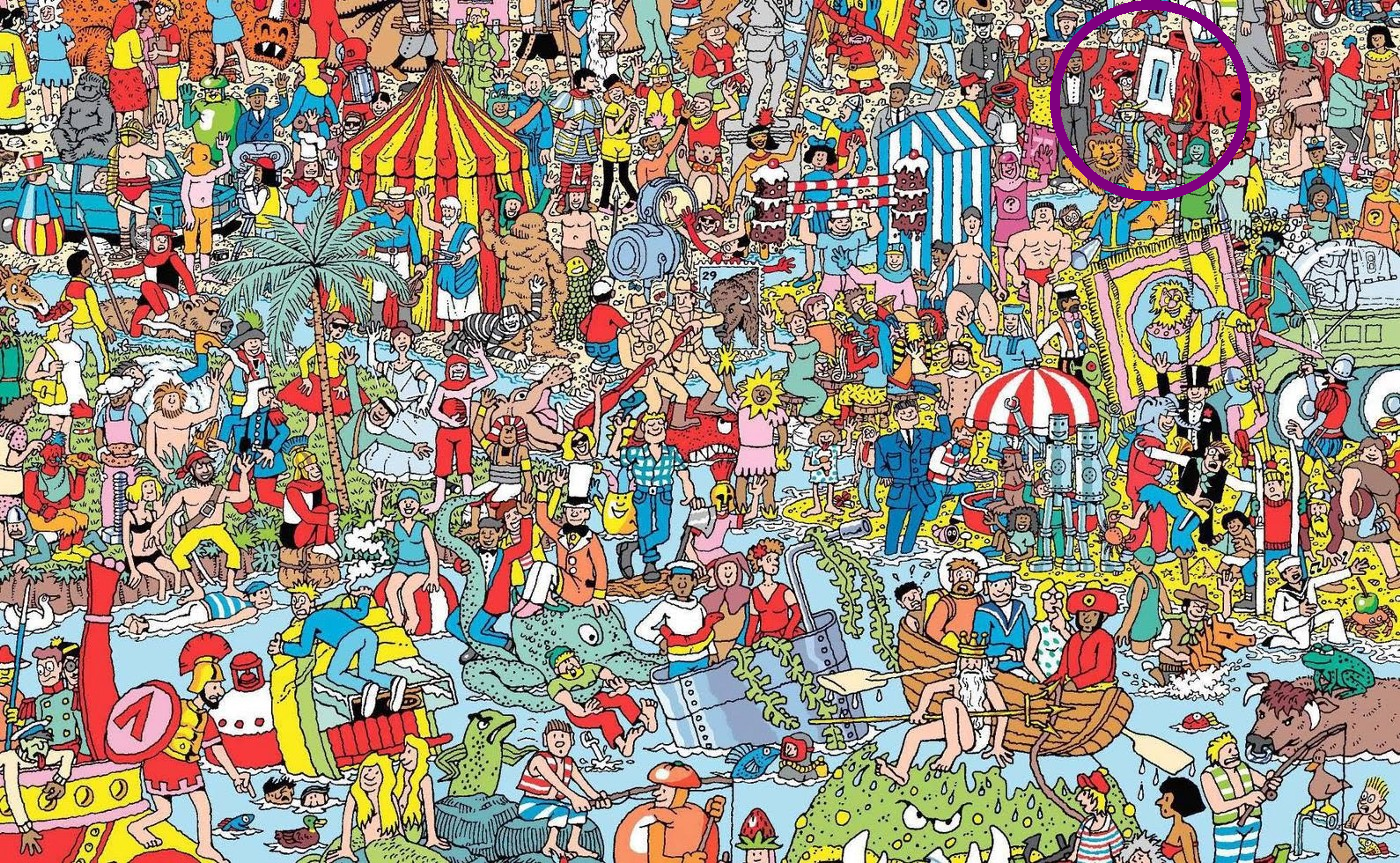
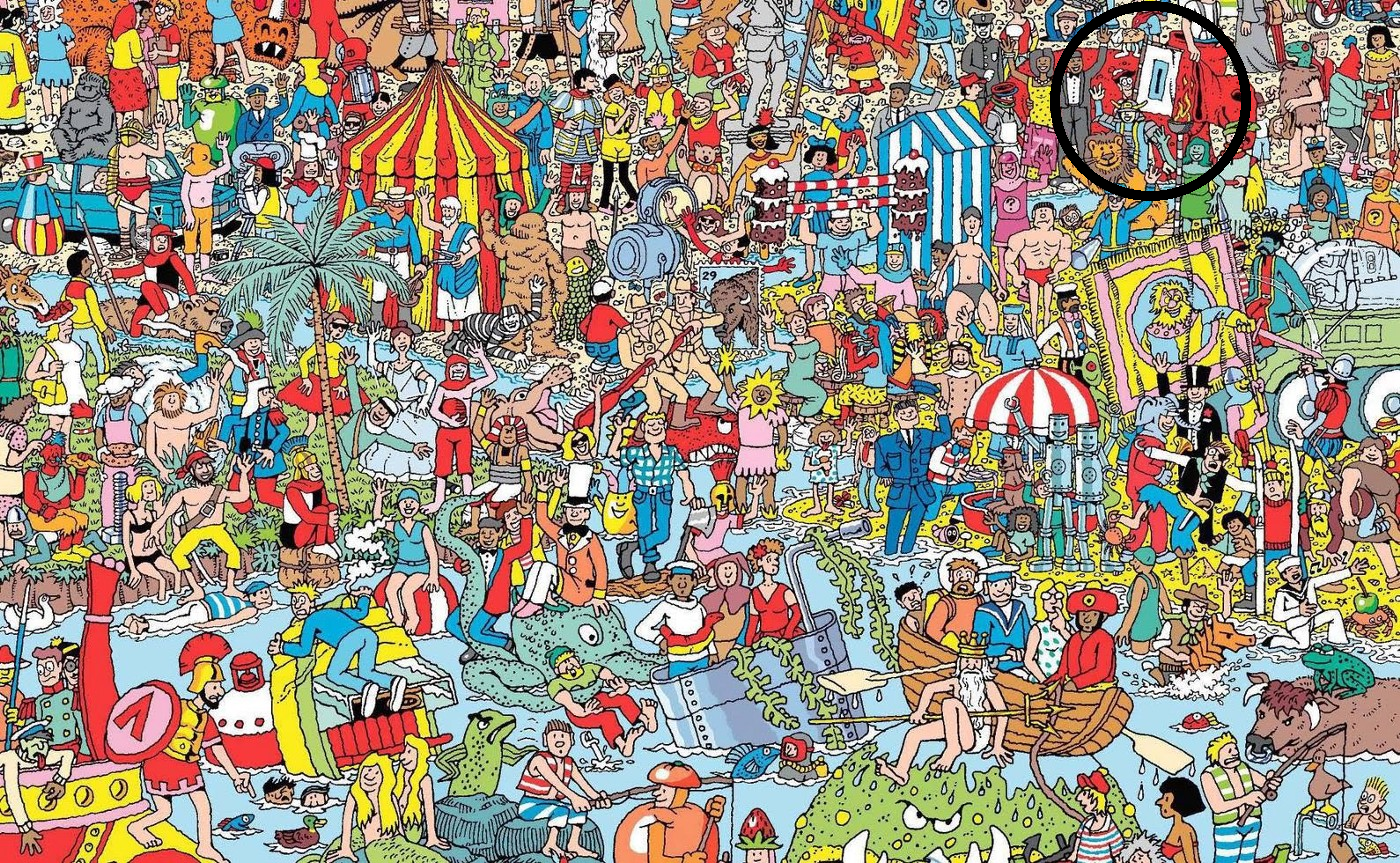
final webpage form for now

Changed region(s): [[0.7371, 0.0, 0.86, 0.1808], [0.86, 0.0301, 0.8907, 0.2109], [0.7679, 0.1808, 0.86, 0.241]]

diff --git a/app.py b/app.py
@@ -81,7 +81,7 @@ if add_radio == "Against Ai":
                     if res.status_code == 200:
                         ### Response from module ###
                         #sol = res.content
-                        sol = [(1050,0),(1250,200)]
+                        sol = [(1050,1),(1250,200)]
                     else:
                         st.markdown("**Oops**, something went wrong 😓 Please try again.")
                         print(res.status_code, res.content)
@@ -102,11 +102,29 @@ if add_radio == "Against Ai":
                         ph_ai.empty()
                         ph_ai.subheader(st.session_state.against_ai_result)
                         with col1.expander("Need Some Help?"):
-                            st.write(f"Maybe Try To Look Closely At The {sol}")
+                            img_size = st.session_state.orginal_image.size
+                            #if any of the cords is 0 it messes up but don't have time to solve it
+                            cord_x = sol[0][0]/img_size[0]
+                            cord_y = sol[0][1]/img_size[1]
+                            if cord_x < 0.37:
+                                x = "Left"
+                            elif 0.37 <= cord_x < 0.53:
+                                x = "Middle"
+                            else:
+                                x = "Right"
+                            if cord_y < 0.37:
+                                y = "Top"
+                            elif 0.37 <= cord_x < 0.53:
+                                y = "Middle"
+                            else:
+                                y = "Bottom"
+
+                            st.write(f"Maybe Try To Look Closely To The {y} {x}.")
+
                         with col3.expander("I Give Up!"):
                             #st.image()
                             draw = ImageDraw.Draw(st.session_state.orginal_image)
-                            draw.ellipse(xy= sol, fill = None , outline ='purple', width= 10)
+                            draw.ellipse(xy= sol, fill = None , outline ='black', width= 10)
                             st.session_state.orginal_image.save("drawn_result.png")
                             st.image(st.session_state.orginal_image)
 
@@ -122,8 +140,11 @@ if add_radio == "Against Ai":
                 st.session_state.against_ai_user_result = user_time
                 st.session_state.against_ai_result = (f"Ai Found Wally at: {amm:02d}:{ass:02d}")    
     if bt2:
-        ph_myself.subheader(st.session_state.against_ai_user_result)
-        ph_ai.subheader(st.session_state.against_ai_result)
+        try:
+            ph_myself.subheader(st.session_state.against_ai_user_result)
+            ph_ai.subheader(st.session_state.against_ai_result)
+        except:
+            st.title("Try To Start The Game First")
         
 ### against time ###
 
@@ -180,13 +201,18 @@ elif add_radio == "Against Time":
                 st.session_state.against_time_result = sonsonuc
                 st.session_state.against_time_spent = sonuc
     if bt2:
-        ph_myself_conc.subheader(st.session_state.against_time_result)
-        if st.session_state.against_time_spent < 15:
-            st.title("Wow, Excellent!")
-        elif 15 <= st.session_state.against_time_spent <30:
-            st.title("Good Job!")
-        else:
-            st.title("You can do better than that!")
+        try:
+            if st.session_state.against_time_result != None:
+                ph_myself_conc.subheader(st.session_state.against_time_result)
+            if st.session_state.against_time_spent < 15:
+                st.title("Wow, Excellent!")
+            elif 15 <= st.session_state.against_time_spent <30:
+                st.title("Good Job!")
+            else:
+                st.title("You can do better than that!")
+        except:
+            st.title("Try To Start The Game First")
+
 
 
 
@@ -200,5 +226,5 @@ elif add_radio == "Against Time":
 
 
 ### sidebar image ###
-st.sidebar.image("/home/omerdondu/code/Krastro/wallyweb/images/where-to-next-457477.png", use_column_width=True)
+st.sidebar.image("./images/where-to-next-457477.png", use_column_width=True)
 

diff --git a/api/fast.py b/api/fast.py
@@ -1,10 +1,12 @@
 from fastapi import FastAPI, File, UploadFile
 from starlette.responses import Response
 # from model_storage.predict import read_image, prediction
-import numpy as np
-import cv2
-import io
+import uvicorn
 
+import numpy as np
+import pickle
+import cv2
+from model import asd
 
 
 
@@ -12,9 +14,15 @@ from fastapi import FastAPI, File, UploadFile
 
 app = FastAPI()
 
+
 @app.get("/")
 def index():
     return {"status": "ok"}
+
+
+
+
+
 
 @app.post('/upload_image')
 async def receive_image(img: UploadFile=File(...)):
@@ -41,114 +49,6 @@ async def receive_image(img: UploadFile=File(...)):
 
 
 
-### de aqui para abajo es la ayuda con edmondo
-
-# @app.get("/files/")
-# async def create_file(file: bytes = File(description="A file read as bytes")):
-#     return {"file_size": len(file)}
-
-
-# @app.get("/uploadfile/")
-# async def create_upload_file(
-#     file: UploadFile = File(description="A file read as UploadFile"),
-# ):
-#     return {"filename": file.filename}
-## hasta aqui
-#############
 
 
 
-#####
-### Esto es lo del hindu
-#####
-# @app.get('/')
-# def root_endpoint():
-#     return {'working': True}
-
-# @app.post('/predict')
-# def predict(img_file:UploadFile = File(...)):
-#     input_image = Image.open(img_file.file)
-#     return {'image': img_file}
-#     # model.run_from_filepath
-
-
-# @app.post("/files/")
-# async def create_file(file: bytes = File()):
-#     return {"file_size": len(file)}
-
-
-# @app.post("/uploadfile/")
-# async def create_upload_file(file: UploadFile):
-#     return {"filename": file.filename}
-# @app.post("/files/")
-# async def create_file(file: bytes = File()):
-#     return {"file_size": len(file)}
-
-
-# @app.post("/uploadfile/")
-# async def create_upload_file(file: UploadFile):
-#     return {"filename": file.filename}
-
-####
-# Hasta aca
-####
-
-
-
-
-
-
-
-
-# def load_model():
-#     return f'some model'
-
-# @app.get('/predict')
-# def predict():
-
-#     model = load_model()
-#     y_pred = model + 'and something else'
-
-#     return {'prediction':y_pred}
-
-
-#####
-## de aqui para abajo estoy replazando la anterior funcion para hacerla encajar con el modelo
-#####
-
-
-# @app.get('/predict')
-# def predict():
-#     model = load_model()
-#     y_pred = model.predict(X_s)
-
-#     return {'This is where waldo is':y_pred[0]}
-
-
-#######
-###  try #2
-#######
-
-
-# import os
-
-# from fastapi import FastAPI
-# from fastapi.responses import FileResponse
-
-# app = FastAPI()
-
-# path = "/path/to/files"
-
-# @app.get("/wally_image", responses={200: {"wally_image": "A whole picture of wally.",
-#                                           "content" : {"image/jpeg" :
-#                                               {"example" : "No example available. Just imagine a picture of a vector image."}}}})
-# def image_endpoint():
-#     file_path = os.path.join(path, "files/vector_image.jpg")
-#     if os.path.exists(file_path):
-#         return FileResponse(file_path, media_type="image/jpeg", filename="vector_image_for_you.jpg")
-#     return {"error" : "File not found!"}
-
-
-# @app.get("/items/{item_id}")
-# def read_item(item_id: int, q: Union[str, None] = None):
-#     return {"item_id": item_id, "q": q}
